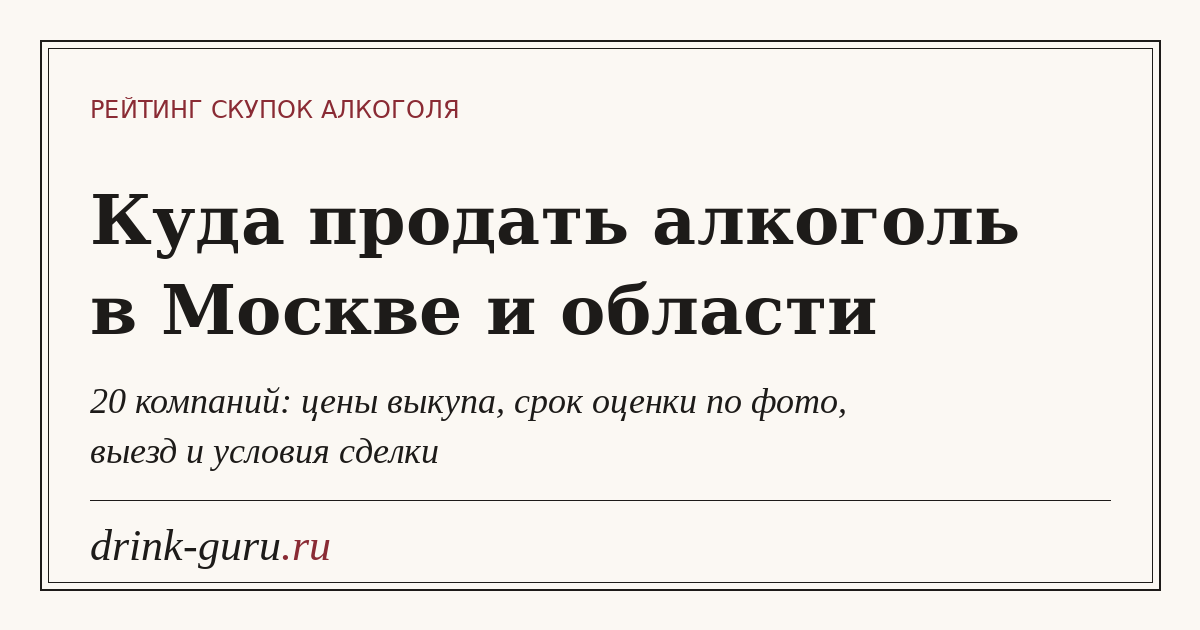
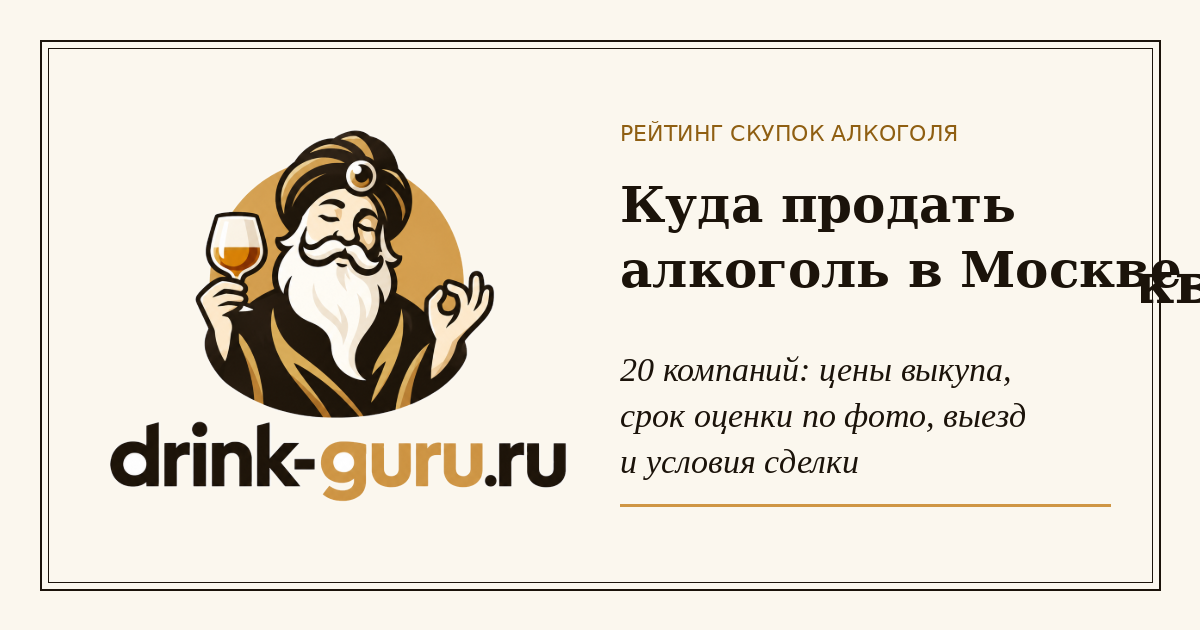
Фирменный стиль drink-guru: логотип, золотая и тёмно-коричневая палитра, иконка и обложка
Claude-Session: https://claude.ai/code/session_01DoYV5VeeReRG5KhwEQv8B6

diff --git a/assets/style.css b/assets/style.css
@@ -1,5 +1,5 @@
 /* Светлая редакционная тема: бумага, чернила, винный акцент */
-:root{--paper:#fbf8f3;--paper-2:#f3eee6;--paper-3:#e8e0d4;--ink:#1d1b19;--ink-2:#3a3631;--accent:#8a2b34;--accent-d:#68202a;--accent-soft:#f4ebe6;--text:#3a3631;--muted:#6a645c;--muted-2:#948c81;--line:#e4dcd0;--rule:#cfc4b4;--white:#fff;--green:#3f7d4e;--red:#c93a3a;--star:#b8863b;--gold:#8a2b34;--gold-d:#68202a;--burgundy:#1d1b19;--cream:#fbf8f3;--cream-2:#f3eee6;--r:2px;--r-lg:2px;--shadow:none;--shadow-lg:0 14px 40px rgba(29,27,25,.10);--serif:"Playfair Display","PT Serif",Georgia,serif;--sans:"Source Sans 3","PT Sans",Arial,sans-serif}
+:root{--gold:#cf9644;--paper:#fbf7ee;--paper-2:#f4eddf;--paper-3:#ebe1cd;--ink:#1b130a;--ink-2:#3b2f21;--accent:#8f5f12;--accent-d:#6c470a;--accent-soft:#f6ecd6;--text:#3b2f21;--muted:#6f6354;--muted-2:#9a8e7a;--line:#e6dcc8;--rule:#d2c5ac;--white:#fff;--green:#3f7d4e;--red:#c93a3a;--star:#cf9644;--gold:#8f5f12;--gold-d:#6c470a;--burgundy:#1b130a;--cream:#fbf7ee;--cream-2:#f4eddf;--r:2px;--r-lg:2px;--shadow:none;--shadow-lg:0 14px 40px rgba(27,19,10,.10);--serif:"Playfair Display","PT Serif",Georgia,serif;--sans:"Source Sans 3","PT Sans",Arial,sans-serif}
 *{box-sizing:border-box;margin:0;padding:0}
 html{scroll-behavior:smooth}
 body{background:var(--paper);color:var(--text);font-family:var(--sans);overflow-x:hidden;line-height:1.55;-webkit-font-smoothing:antialiased}
@@ -25,7 +25,7 @@ img{max-width:100%}
 .menu-btn{display:none;width:44px;height:44px;border:1px solid var(--rule);border-radius:var(--r);background:#fff;color:var(--ink);font-size:22px}
 /* buttons */
 .btn{display:inline-flex;align-items:center;justify-content:center;gap:12px;min-height:50px;padding:0 28px;border-radius:999px;font-size:14px;font-weight:700;letter-spacing:0;transition:.2s}
-.btn-primary{background:var(--accent);color:#fff;border:1px solid var(--accent);box-shadow:0 6px 16px rgba(138,43,52,.18)}
+.btn-primary{background:var(--accent);color:#fff;border:1px solid var(--accent);box-shadow:0 6px 16px rgba(143,95,18,.18)}
 .btn-primary:hover{background:var(--accent-d);border-color:var(--accent-d)}
 .btn-outline{background:#fff;color:var(--ink);border:1px solid var(--rule)}
 .btn-outline:hover{border-color:var(--accent);color:var(--accent)}
@@ -43,7 +43,7 @@ img{max-width:100%}
 .muted{color:var(--muted-2);font-size:12px}
 .lime{color:var(--accent);font-style:normal;font-weight:800}
 /* hero */
-.hero{background:linear-gradient(180deg,#f4ede4 0,var(--paper) 100%)}
+.hero{background:linear-gradient(180deg,#f6efe0 0,var(--paper) 100%)}
 .hero-grid{display:grid;grid-template-columns:1.35fr 1fr;gap:64px;align-items:start;padding:72px 0 64px}
 .hero-title{margin:22px 0 0;color:var(--ink);font-size:clamp(38px,4.6vw,64px);font-weight:800;line-height:1.02;letter-spacing:-2.4px}
 .hero-copy{max-width:580px;margin-top:28px;color:var(--muted);font-size:18px;line-height:1.7}
@@ -96,7 +96,7 @@ img{max-width:100%}
 .cc-actions{display:flex;flex-wrap:wrap;gap:12px}
 .cc-actions .btn{min-height:44px;font-size:13px;padding:0 22px}
 /* rating */
-.stars{--p:0%;display:inline-block;font-size:20px;letter-spacing:2px;line-height:1;background:linear-gradient(90deg,var(--star) var(--p),#ddd3c4 var(--p));-webkit-background-clip:text;background-clip:text;color:transparent;-webkit-text-fill-color:transparent}
+.stars{--p:0%;display:inline-block;font-size:20px;letter-spacing:2px;line-height:1;background:linear-gradient(90deg,var(--star) var(--p),#e0d5be var(--p));-webkit-background-clip:text;background-clip:text;color:transparent;-webkit-text-fill-color:transparent}
 .stars.sm{font-size:14px;letter-spacing:1px}
 .rating{padding:18px 20px;border:1px solid var(--line);border-radius:var(--r);background:var(--paper)}
 .rt-head{display:flex;align-items:center;gap:14px;margin-bottom:12px}
@@ -115,7 +115,7 @@ table.data th{padding:14px 18px;color:var(--muted);background:var(--paper-2);fon
 table.data td{padding:14px 18px;border-top:1px solid var(--line);color:var(--ink-2);vertical-align:top}
 table.data tr:nth-child(even) td{background:var(--paper)}
 table.data td.n{color:var(--accent);font-family:var(--serif);font-size:20px;font-weight:800}
-table.data td.dash{color:#c2b8a8}
+table.data td.dash{color:#c9bca3}
 table.data a:hover{color:var(--accent);text-decoration:underline}
 /* legacy ranking table classes */
 .ranking-table{border:1px solid var(--line);border-radius:var(--r-lg);background:var(--white)}
@@ -126,7 +126,7 @@ table.data a:hover{color:var(--accent);text-decoration:underline}
 /* calculator */
 .calculator-shell{display:grid;grid-template-columns:1fr .85fr;overflow:hidden;border:1px solid var(--line);border-radius:var(--r-lg);background:var(--white);box-shadow:var(--shadow-lg)}
 .calculator-form{padding:clamp(28px,4.5vw,56px)}
-.calculator-result{position:relative;display:flex;flex-direction:column;justify-content:center;padding:clamp(28px,4.5vw,56px);background:linear-gradient(160deg,#f1e6dc,#f7f1e9);color:var(--ink-2)}
+.calculator-result{position:relative;display:flex;flex-direction:column;justify-content:center;padding:clamp(28px,4.5vw,56px);background:linear-gradient(160deg,#f1e6cf,#f7f0e0);color:var(--ink-2)}
 .calculator-title{margin:14px 0;color:var(--ink);font-size:clamp(30px,3.4vw,46px);font-weight:800;line-height:1.08;letter-spacing:-1.2px}
 .calculator-copy{color:var(--muted);line-height:1.65}
 .form-grid{display:grid;gap:13px;margin-top:26px}
@@ -166,7 +166,7 @@ label.lbl{display:grid;gap:8px;color:var(--muted);font-size:13px;font-weight:600
 .prose p{margin-bottom:14px;color:var(--ink-2);line-height:1.8}
 .prose strong{color:var(--ink)}
 /* cta */
-.final-cta{padding:96px 0;text-align:left;background:linear-gradient(160deg,#f1e6dc,#f7f1e9);color:var(--ink)}
+.final-cta{padding:96px 0;text-align:left;background:linear-gradient(160deg,#f1e6cf,#f7f0e0);color:var(--ink)}
 .final-title{max-width:860px;margin:18px 0;color:var(--ink);font-size:clamp(36px,5vw,64px);font-weight:800;line-height:1.04;letter-spacing:-2px}
 .final-copy{max-width:520px;margin:0 0 30px;color:var(--ink-2);font-size:17px;line-height:1.65}
 .final-note{margin-top:18px;color:var(--muted);font-size:11px}
@@ -210,7 +210,7 @@ label.lbl{display:grid;gap:8px;color:var(--muted);font-size:13px;font-weight:600
 .expert-note a{font-weight:700;text-decoration:underline}
 .pager{display:flex;flex-wrap:wrap;justify-content:space-between;gap:14px;margin-top:40px}
 .pager .btn{min-height:44px;font-size:13px}
-.topic-hero{padding:68px 0 52px;background:linear-gradient(180deg,#f4ede4 0,var(--paper) 100%)}
+.topic-hero{padding:68px 0 52px;background:linear-gradient(180deg,#f6efe0 0,var(--paper) 100%)}
 .topic-hero .page-title{max-width:900px;font-size:clamp(34px,4.6vw,60px)}
 .topic-hero .hero-buttons{margin-top:28px}
 .cross-grid{display:grid;grid-template-columns:repeat(3,1fr);gap:20px}
@@ -245,7 +245,7 @@ label.lbl{display:grid;gap:8px;color:var(--muted);font-size:13px;font-weight:600
 .keyfacts .sub{margin-bottom:14px;font-size:26px}
 /* диалог, формы */
 dialog.review{width:min(92vw,480px);padding:28px;border:0;border-radius:var(--r-lg);background:var(--white);color:var(--text);box-shadow:var(--shadow-lg)}
-dialog.review::backdrop{background:rgba(29,27,25,.4);backdrop-filter:blur(3px)}
+dialog.review::backdrop{background:rgba(27,19,10,.4);backdrop-filter:blur(3px)}
 dialog.review .lbl{margin-bottom:12px}
 dialog.review .cc-actions{margin-top:14px;justify-content:flex-end}
 .org-form textarea.field,dialog.review textarea.field{padding:12px 14px;resize:vertical}
@@ -268,7 +268,7 @@ dialog.review .cc-actions{margin-top:14px;justify-content:flex-end}
 .age-badge.sm{min-width:30px;height:30px;margin-right:8px;font-size:11px;vertical-align:middle}
 .age-badge.lg{min-width:76px;height:76px;margin:0 auto 18px;border-width:3px;font-size:26px}
 .header-inner .age-badge{margin-left:-8px}
-.age-gate{position:fixed;inset:0;z-index:200;display:grid;place-items:center;padding:20px;background:rgba(251,248,243,.95);backdrop-filter:blur(10px)}
+.age-gate{position:fixed;inset:0;z-index:200;display:grid;place-items:center;padding:20px;background:rgba(251,247,238,.95);backdrop-filter:blur(10px)}
 .age-gate[hidden]{display:none}
 .age-card{width:min(100%,460px);padding:36px 30px;border:1px solid var(--line);border-radius:var(--r-lg);background:var(--white);text-align:center;box-shadow:var(--shadow-lg)}
 .age-card h2{margin-bottom:12px;color:var(--ink);font-family:var(--serif);font-size:30px;font-weight:800;line-height:1.1}
@@ -348,7 +348,7 @@ body.age-lock{overflow:hidden}
 /* мелкие правки светлой темы */
 .company-card:hover{box-shadow:var(--shadow-lg)}
 .age-badge{border-width:1.5px}
-.header{box-shadow:0 1px 0 rgba(29,27,25,.02)}
+.header{box-shadow:0 1px 0 rgba(27,19,10,.02)}
 
 /* верхняя строка шапки и блок популярных тем в подвале */
 .topbar{background:var(--accent-soft);border-bottom:1px solid var(--line);color:var(--ink-2);font-size:12.5px;line-height:1.4}
@@ -379,11 +379,11 @@ body.age-lock{overflow:hidden}
 /* полоса цифр */
 .stats-section{padding:56px 0 8px}
 .stats-strip{display:grid;grid-template-columns:repeat(4,minmax(0,1fr));gap:20px}
-.stat-tile{display:grid;align-content:start;gap:10px;padding:26px 24px;border-radius:var(--r-lg);background:linear-gradient(160deg,#f4ebe6,#f7f1e9);border:1px solid var(--line)}
+.stat-tile{display:grid;align-content:start;gap:10px;padding:26px 24px;border-radius:var(--r-lg);background:linear-gradient(160deg,#f6ecd6,#f7f0e0);border:1px solid var(--line)}
 .stat-tile b{color:var(--accent-d);font-family:var(--serif);font-size:clamp(34px,3.6vw,48px);font-weight:800;letter-spacing:-1.5px;line-height:1}
 .stat-tile span{color:var(--ink-2);font-size:14px;line-height:1.5}
 /* чек-лист-абзац как врезка */
-.prose.checklist{padding:28px 32px;border-radius:var(--r-lg);background:var(--accent-soft);border:1px solid #e6d6cb}
+.prose.checklist{padding:28px 32px;border-radius:var(--r-lg);background:var(--accent-soft);border:1px solid #e8d9b8}
 .prose.checklist p{margin:0;color:var(--ink-2)}
 @media(max-width:850px){.prose-cards .pgrid,.stats-strip{grid-template-columns:1fr}.pcard{padding:22px}.prow{grid-template-columns:1fr;padding:20px 0}}
 @media(min-width:851px) and (max-width:1100px){.stats-strip{grid-template-columns:repeat(2,minmax(0,1fr))}}
@@ -414,7 +414,7 @@ h1,h2,h3,.serif{font-weight:700;letter-spacing:-.01em}
 .chip.active,.chip:hover{background:var(--ink);border-color:var(--ink)}
 .age-badge{border-radius:50%}
 /* шапка: газетный верх с двойной линией */
-.header{background:rgba(251,248,243,.94);border-bottom:3px double var(--ink);box-shadow:none}
+.header{background:rgba(251,247,238,.94);border-bottom:3px double var(--ink);box-shadow:none}
 .header-inner{min-height:84px}
 .nav-logo{font-weight:700;font-size:28px;letter-spacing:-.02em;font-style:italic}
 .nav-logo i{font-style:italic}
@@ -476,15 +476,15 @@ table.data td.n{font-style:italic}
 .em-photo{border-radius:0;box-shadow:none;border:1px solid var(--ink)}
 .ex-photo{border-radius:0}
 .ex-card{background:var(--white)}
-.footer{background:var(--ink);color:#c9c1b4;border-top:0}
+.footer{background:var(--ink);color:#cdbfa6;border-top:0}
 .footer .nav-logo,.footer-title,.footer .footer-links a.footer-mail{color:var(--paper)}
-.footer-links a{color:#c9c1b4}.footer-links a:hover{color:#e3c58f}
-.footer-tags{border-top:1px solid #4a453e}
+.footer-links a{color:#cdbfa6}.footer-links a:hover{color:#e3c58f}
+.footer-tags{border-top:1px solid #4a3c2a}
 .footer-tags-title{color:var(--paper)}
-.footer-tags a{border-color:#5c564d;color:#c9c1b4}.footer-tags a:hover{border-color:#e3c58f;color:#e3c58f}
-.legal{border-top:1px solid #4a453e;color:#a39a8c}
+.footer-tags a{border-color:#6b5a42;color:#cdbfa6}.footer-tags a:hover{border-color:#e3c58f;color:#e3c58f}
+.legal{border-top:1px solid #4a3c2a;color:#ad9f87}
 .legal strong{border-color:#e3c58f;color:#e3c58f}
-.footer-bottom{color:#a39a8c}
+.footer-bottom{color:#ad9f87}
 .footer .footer-links a.footer-mail{text-decoration-color:#e3c58f}
 .topic-hero{background:var(--paper);border-bottom:1px solid var(--ink)}
 .cover img,.cc-img img{border-radius:0}
@@ -528,3 +528,24 @@ dialog.review{border-radius:0}
 .ex-card{align-items:flex-start}
 .ex-photo{width:200px;height:250px;border-radius:0;border:1px solid var(--ink)}
 @media(max-width:600px){.ex-photo{width:100%;height:280px}}
+
+/* ===== Фирменный стиль drink-guru: золото и тёмно-коричневый ===== */
+.btn-primary:hover,.top-all:hover{background:var(--gold);border-color:var(--gold);color:var(--ink)}
+.chip.active,.chip:hover{background:var(--ink);border-color:var(--ink);color:var(--gold)}
+.ea-pic{background:var(--gold)}
+.ea-mono{color:var(--ink)}
+.eyebrow::before{background:var(--gold)}
+.photo-band .eyebrow{color:var(--gold)}.photo-band .eyebrow::before{background:var(--gold)}
+.nav-logo{flex-direction:row;align-items:center;gap:12px;font-style:normal}
+.logo-mark{display:block;height:56px;width:auto;flex:none}
+.logo-text{display:flex;flex-direction:column;min-width:0}
+.logo-word{color:var(--ink);font-family:"Montserrat","Poppins",Arial,sans-serif;font-weight:800;font-size:26px;letter-spacing:-.04em;line-height:1;white-space:nowrap}
+.logo-word b{color:var(--gold);font-weight:800}
+.nav-logo-sub{margin-top:6px}
+.footer .logo-word{color:var(--paper)}
+.footer .logo-mark{height:64px}
+.footer .nav-logo{align-items:center}
+@media(max-width:850px){.logo-mark{height:44px}.logo-word{font-size:22px}}
+@media(max-width:380px){.logo-mark{display:none}}
+.footer .logo-word b{color:#e2ae5c}
+.footer .nav-logo-sub{color:#bfae8e}

diff --git a/gde-prodat-vodku.html b/gde-prodat-vodku.html
@@ -6,7 +6,7 @@
 <title>Продать водку в Москве: коллекционная и премиальная, рейтинг скупок — drink-guru.ru</title>
 <meta name="description" content="Куда продать водку в Москве: кто принимает коллекционные, лимитированные и советские бутылки, а кто берёт недорогие позиции. Рейтинг скупок, срок оценки по фото, выезд, сохранность и упаковка.">
 <meta name="robots" content="index, follow, max-image-preview:large">
-<meta name="theme-color" content="#8a2b34">
+<meta name="theme-color" content="#1b130a">
 <link rel="canonical" href="https://drink-guru.ru/gde-prodat-vodku.html">
 <link rel="alternate" type="application/json" href="https://drink-guru.ru/data/companies.json" title="Данные рейтинга (JSON)">
 <link rel="icon" href="assets/favicon.png" type="image/png">
@@ -25,8 +25,8 @@
 <meta name="twitter:image" content="https://drink-guru.ru/assets/og.png">
 <link rel="preconnect" href="https://fonts.googleapis.com">
 <link rel="preconnect" href="https://fonts.gstatic.com" crossorigin>
-<link href="https://fonts.googleapis.com/css2?family=Playfair+Display:ital,wght@0,500;0,700;1,500;1,700&family=Source+Sans+3:wght@400;500;600;700&display=swap" rel="stylesheet">
-<link rel="stylesheet" href="assets/style.css?v=aa303c28">
+<link href="https://fonts.googleapis.com/css2?family=Montserrat:wght@800&family=Playfair+Display:ital,wght@0,500;0,700;1,500;1,700&family=Source+Sans+3:wght@400;500;600;700&display=swap" rel="stylesheet">
+<link rel="stylesheet" href="assets/style.css?v=d8941fb3">
 <script type="application/ld+json">{"@context": "https://schema.org", "@type": "WebSite", "name": "drink-guru.ru", "url": "https://drink-guru.ru/", "inLanguage": "ru"}</script>
 <script type="application/ld+json">{"@context": "https://schema.org", "@type": "Organization", "name": "drink-guru.ru", "url": "https://drink-guru.ru/", "logo": "https://drink-guru.ru/assets/og.png", "email": "support@drink-guru.ru", "contactPoint": {"@type": "ContactPoint", "contactType": "customer support", "email": "support@drink-guru.ru", "availableLanguage": "ru"}}</script>
 <script type="application/ld+json">{"@context": "https://schema.org", "@type": "WebPage", "name": "Продать водку в Москве: коллекционная и премиальная, рейтинг скупок — drink-guru.ru", "url": "https://drink-guru.ru/gde-prodat-vodku.html", "description": "Куда продать водку в Москве: кто принимает коллекционные, лимитированные и советские бутылки, а кто берёт недорогие позиции. Рейтинг скупок, срок оценки по фото, выезд, сохранность и упаковка.", "inLanguage": "ru", "dateModified": "2026-10-10", "isPartOf": {"@type": "WebSite", "name": "drink-guru.ru", "url": "https://drink-guru.ru/"}, "publisher": {"@type": "Organization", "name": "drink-guru.ru"}}</script>

diff --git a/gde-prodat-elitnyy-alkogol.html b/gde-prodat-elitnyy-alkogol.html
@@ -6,7 +6,7 @@
 <title>Продать элитный и коллекционный алкоголь в Москве: рейтинг скупок — drink-guru.ru</title>
 <meta name="description" content="Куда продать элитный и коллекционный алкоголь в Москве: рейтинг скупок редкого виски, коньяка, вина и шампанского. Цена выкупа, срок оценки по фото, выезд, сохранность и упаковка.">
 <meta name="robots" content="index, follow, max-image-preview:large">
-<meta name="theme-color" content="#8a2b34">
+<meta name="theme-color" content="#1b130a">
 <link rel="canonical" href="https://drink-guru.ru/gde-prodat-elitnyy-alkogol.html">
 <link rel="alternate" type="application/json" href="https://drink-guru.ru/data/companies.json" title="Данные рейтинга (JSON)">
 <link rel="icon" href="assets/favicon.png" type="image/png">
@@ -25,8 +25,8 @@
 <meta name="twitter:image" content="https://drink-guru.ru/assets/og.png">
 <link rel="preconnect" href="https://fonts.googleapis.com">
 <link rel="preconnect" href="https://fonts.gstatic.com" crossorigin>
-<link href="https://fonts.googleapis.com/css2?family=Playfair+Display:ital,wght@0,500;0,700;1,500;1,700&family=Source+Sans+3:wght@400;500;600;700&display=swap" rel="stylesheet">
-<link rel="stylesheet" href="assets/style.css?v=aa303c28">
+<link href="https://fonts.googleapis.com/css2?family=Montserrat:wght@800&family=Playfair+Display:ital,wght@0,500;0,700;1,500;1,700&family=Source+Sans+3:wght@400;500;600;700&display=swap" rel="stylesheet">
+<link rel="stylesheet" href="assets/style.css?v=d8941fb3">
 <script type="application/ld+json">{"@context": "https://schema.org", "@type": "WebSite", "name": "drink-guru.ru", "url": "https://drink-guru.ru/", "inLanguage": "ru"}</script>
 <script type="application/ld+json">{"@context": "https://schema.org", "@type": "Organization", "name": "drink-guru.ru", "url": "https://drink-guru.ru/", "logo": "https://drink-guru.ru/assets/og.png", "email": "support@drink-guru.ru", "contactPoint": {"@type": "ContactPoint", "contactType": "customer support", "email": "support@drink-guru.ru", "availableLanguage": "ru"}}</script>
 <script type="application/ld+json">{"@context": "https://schema.org", "@type": "WebPage", "name": "Продать элитный и коллекционный алкоголь в Москве: рейтинг скупок — drink-guru.ru", "url": "https://drink-guru.ru/gde-prodat-elitnyy-alkogol.html", "description": "Куда продать элитный и коллекционный алкоголь в Москве: рейтинг скупок редкого виски, коньяка, вина и шампанского. Цена выкупа, срок оценки по фото, выезд, сохранность и упаковка.", "inLanguage": "ru", "dateModified": "2026-10-10", "isPartOf": {"@type": "WebSite", "name": "drink-guru.ru", "url": "https://drink-guru.ru/"}, "publisher": {"@type": "Organization", "name": "drink-guru.ru"}}</script>

diff --git a/metodika.html b/metodika.html
@@ -6,7 +6,7 @@
 <title>Методика рейтинга скупок алкоголя: данные, критерии, оценка — drink-guru.ru</title>
 <meta name="description" content="Как устроен рейтинг скупок алкоголя в Москве: источники данных, критерии оценки, факторы стоимости бутылки, ограничения и сайты, которые, вероятно, принадлежат одному оператору.">
 <meta name="robots" content="index, follow, max-image-preview:large">
-<meta name="theme-color" content="#8a2b34">
+<meta name="theme-color" content="#1b130a">
 <link rel="canonical" href="https://drink-guru.ru/metodika.html">
 <link rel="alternate" type="application/json" href="https://drink-guru.ru/data/companies.json" title="Данные рейтинга (JSON)">
 <link rel="icon" href="assets/favicon.png" type="image/png">
@@ -25,8 +25,8 @@
 <meta name="twitter:image" content="https://drink-guru.ru/assets/og.png">
 <link rel="preconnect" href="https://fonts.googleapis.com">
 <link rel="preconnect" href="https://fonts.gstatic.com" crossorigin>
-<link href="https://fonts.googleapis.com/css2?family=Playfair+Display:ital,wght@0,500;0,700;1,500;1,700&family=Source+Sans+3:wght@400;500;600;700&display=swap" rel="stylesheet">
-<link rel="stylesheet" href="assets/style.css?v=aa303c28">
+<link href="https://fonts.googleapis.com/css2?family=Montserrat:wght@800&family=Playfair+Display:ital,wght@0,500;0,700;1,500;1,700&family=Source+Sans+3:wght@400;500;600;700&display=swap" rel="stylesheet">
+<link rel="stylesheet" href="assets/style.css?v=d8941fb3">
 <script type="application/ld+json">{"@context": "https://schema.org", "@type": "WebSite", "name": "drink-guru.ru", "url": "https://drink-guru.ru/", "inLanguage": "ru"}</script>
 <script type="application/ld+json">{"@context": "https://schema.org", "@type": "Organization", "name": "drink-guru.ru", "url": "https://drink-guru.ru/", "logo": "https://drink-guru.ru/assets/og.png", "email": "support@drink-guru.ru", "contactPoint": {"@type": "ContactPoint", "contactType": "customer support", "email": "support@drink-guru.ru", "availableLanguage": "ru"}}</script>
 <script type="application/ld+json">{"@context": "https://schema.org", "@type": "WebPage", "name": "Методика рейтинга скупок алкоголя: данные, критерии, оценка — drink-guru.ru", "url": "https://drink-guru.ru/metodika.html", "description": "Как устроен рейтинг скупок алкоголя в Москве: источники данных, критерии оценки, факторы стоимости бутылки, ограничения и сайты, которые, вероятно, принадлежат одному оператору.", "inLanguage": "ru", "dateModified": "2026-10-10", "isPartOf": {"@type": "WebSite", "name": "drink-guru.ru", "url": "https://drink-guru.ru/"}, "publisher": {"@type": "Organization", "name": "drink-guru.ru"}}</script>

diff --git a/index.html b/index.html
@@ -6,7 +6,7 @@
 <title>Скупка алкоголя в Москве: рейтинг компаний, куда продать коньяк и виски — drink-guru.ru</title>
 <meta name="description" content="Куда продать коньяк, виски, вино и шампанское в Москве и области: рейтинг 20 скупок коллекционного алкоголя, цены выкупа, срок оценки по фото, выезд и условия сделки.">
 <meta name="robots" content="index, follow, max-image-preview:large">
-<meta name="theme-color" content="#8a2b34">
+<meta name="theme-color" content="#1b130a">
 <link rel="canonical" href="https://drink-guru.ru/">
 <link rel="alternate" type="application/json" href="https://drink-guru.ru/data/companies.json" title="Данные рейтинга (JSON)">
 <link rel="icon" href="assets/favicon.png" type="image/png">
@@ -25,8 +25,8 @@
 <meta name="twitter:image" content="https://drink-guru.ru/assets/og.png">
 <link rel="preconnect" href="https://fonts.googleapis.com">
 <link rel="preconnect" href="https://fonts.gstatic.com" crossorigin>
-<link href="https://fonts.googleapis.com/css2?family=Playfair+Display:ital,wght@0,500;0,700;1,500;1,700&family=Source+Sans+3:wght@400;500;600;700&display=swap" rel="stylesheet">
-<link rel="stylesheet" href="assets/style.css?v=aa303c28">
+<link href="https://fonts.googleapis.com/css2?family=Montserrat:wght@800&family=Playfair+Display:ital,wght@0,500;0,700;1,500;1,700&family=Source+Sans+3:wght@400;500;600;700&display=swap" rel="stylesheet">
+<link rel="stylesheet" href="assets/style.css?v=d8941fb3">
 <script type="application/ld+json">{"@context": "https://schema.org", "@type": "WebSite", "name": "drink-guru.ru", "url": "https://drink-guru.ru/", "inLanguage": "ru"}</script>
 <script type="application/ld+json">{"@context": "https://schema.org", "@type": "Organization", "name": "drink-guru.ru", "url": "https://drink-guru.ru/", "logo": "https://drink-guru.ru/assets/og.png", "email": "support@drink-guru.ru", "contactPoint": {"@type": "ContactPoint", "contactType": "customer support", "email": "support@drink-guru.ru", "availableLanguage": "ru"}}</script>
 <script type="application/ld+json">{"@context": "https://schema.org", "@type": "WebPage", "name": "Скупка алкоголя в Москве: рейтинг компаний, куда продать коньяк и виски — drink-guru.ru", "url": "https://drink-guru.ru/", "description": "Куда продать коньяк, виски, вино и шампанское в Москве и области: рейтинг 20 скупок коллекционного алкоголя, цены выкупа, срок оценки по фото, выезд и условия сделки.", "inLanguage": "ru", "dateModified": "2026-10-10", "isPartOf": {"@type": "WebSite", "name": "drink-guru.ru", "url": "https://drink-guru.ru/"}, "publisher": {"@type": "Organization", "name": "drink-guru.ru"}}</script>

diff --git a/o-reitinge.html b/o-reitinge.html
@@ -6,7 +6,7 @@
 <title>О проекте и эксперте: независимый рейтинг скупок алкоголя — drink-guru.ru</title>
 <meta name="description" content="О проекте: независимый рейтинг скупок элитного и коллекционного алкоголя в Москве. Кто эксперт сайта, откуда данные и почему сайт ничего не покупает.">
 <meta name="robots" content="index, follow, max-image-preview:large">
-<meta name="theme-color" content="#8a2b34">
+<meta name="theme-color" content="#1b130a">
 <link rel="canonical" href="https://drink-guru.ru/o-reitinge.html">
 <link rel="alternate" type="application/json" href="https://drink-guru.ru/data/companies.json" title="Данные рейтинга (JSON)">
 <link rel="icon" href="assets/favicon.png" type="image/png">
@@ -25,8 +25,8 @@
 <meta name="twitter:image" content="https://drink-guru.ru/assets/og.png">
 <link rel="preconnect" href="https://fonts.googleapis.com">
 <link rel="preconnect" href="https://fonts.gstatic.com" crossorigin>
-<link href="https://fonts.googleapis.com/css2?family=Playfair+Display:ital,wght@0,500;0,700;1,500;1,700&family=Source+Sans+3:wght@400;500;600;700&display=swap" rel="stylesheet">
-<link rel="stylesheet" href="assets/style.css?v=aa303c28">
+<link href="https://fonts.googleapis.com/css2?family=Montserrat:wght@800&family=Playfair+Display:ital,wght@0,500;0,700;1,500;1,700&family=Source+Sans+3:wght@400;500;600;700&display=swap" rel="stylesheet">
+<link rel="stylesheet" href="assets/style.css?v=d8941fb3">
 <script type="application/ld+json">{"@context": "https://schema.org", "@type": "WebSite", "name": "drink-guru.ru", "url": "https://drink-guru.ru/", "inLanguage": "ru"}</script>
 <script type="application/ld+json">{"@context": "https://schema.org", "@type": "Organization", "name": "drink-guru.ru", "url": "https://drink-guru.ru/", "logo": "https://drink-guru.ru/assets/og.png", "email": "support@drink-guru.ru", "contactPoint": {"@type": "ContactPoint", "contactType": "customer support", "email": "support@drink-guru.ru", "availableLanguage": "ru"}}</script>
 <script type="application/ld+json">{"@context": "https://schema.org", "@type": "WebPage", "name": "О проекте и эксперте: независимый рейтинг скупок алкоголя — drink-guru.ru", "url": "https://drink-guru.ru/o-reitinge.html", "description": "О проекте: независимый рейтинг скупок элитного и коллекционного алкоголя в Москве. Кто эксперт сайта, откуда данные и почему сайт ничего не покупает.", "inLanguage": "ru", "dateModified": "2026-10-10", "isPartOf": {"@type": "WebSite", "name": "drink-guru.ru", "url": "https://drink-guru.ru/"}, "publisher": {"@type": "Organization", "name": "drink-guru.ru"}}</script>

diff --git a/prices.html b/prices.html
@@ -6,7 +6,7 @@
 <title>Цены выкупа алкоголя в Москве: виски, коньяк, вино, шампанское — drink-guru.ru</title>
 <meta name="description" content="Сколько платят за виски, коньяк, шампанское и вино: открытые цены выкупа 700ml, 1buyup, Red Decanter и SKUPKA-ALKOGOL в одной таблице с пометками «от», «до» и «прибл.».">
 <meta name="robots" content="index, follow, max-image-preview:large">
-<meta name="theme-color" content="#8a2b34">
+<meta name="theme-color" content="#1b130a">
 <link rel="canonical" href="https://drink-guru.ru/prices.html">
 <link rel="alternate" type="application/json" href="https://drink-guru.ru/data/companies.json" title="Данные рейтинга (JSON)">
 <link rel="icon" href="assets/favicon.png" type="image/png">
@@ -25,8 +25,8 @@
 <meta name="twitter:image" content="https://drink-guru.ru/assets/og.png">
 <link rel="preconnect" href="https://fonts.googleapis.com">
 <link rel="preconnect" href="https://fonts.gstatic.com" crossorigin>
-<link href="https://fonts.googleapis.com/css2?family=Playfair+Display:ital,wght@0,500;0,700;1,500;1,700&family=Source+Sans+3:wght@400;500;600;700&display=swap" rel="stylesheet">
-<link rel="stylesheet" href="assets/style.css?v=aa303c28">
+<link href="https://fonts.googleapis.com/css2?family=Montserrat:wght@800&family=Playfair+Display:ital,wght@0,500;0,700;1,500;1,700&family=Source+Sans+3:wght@400;500;600;700&display=swap" rel="stylesheet">
+<link rel="stylesheet" href="assets/style.css?v=d8941fb3">
 <script type="application/ld+json">{"@context": "https://schema.org", "@type": "WebSite", "name": "drink-guru.ru", "url": "https://drink-guru.ru/", "inLanguage": "ru"}</script>
 <script type="application/ld+json">{"@context": "https://schema.org", "@type": "Organization", "name": "drink-guru.ru", "url": "https://drink-guru.ru/", "logo": "https://drink-guru.ru/assets/og.png", "email": "support@drink-guru.ru", "contactPoint": {"@type": "ContactPoint", "contactType": "customer support", "email": "support@drink-guru.ru", "availableLanguage": "ru"}}</script>
 <script type="application/ld+json">{"@context": "https://schema.org", "@type": "WebPage", "name": "Цены выкупа алкоголя в Москве: виски, коньяк, вино, шампанское — drink-guru.ru", "url": "https://drink-guru.ru/prices.html", "description": "Сколько платят за виски, коньяк, шампанское и вино: открытые цены выкупа 700ml, 1buyup, Red Decanter и SKUPKA-ALKOGOL в одной таблице с пометками «от», «до» и «прибл.».", "inLanguage": "ru", "dateModified": "2026-10-10", "isPartOf": {"@type": "WebSite", "name": "drink-guru.ru", "url": "https://drink-guru.ru/"}, "publisher": {"@type": "Organization", "name": "drink-guru.ru"}}</script>

diff --git a/c/oldcognac-ru.html b/c/oldcognac-ru.html
@@ -6,7 +6,7 @@
 <title>oldcognac.ru («СкупкаАлкоголя»): обзор скупки алкоголя, условия и цены — drink-guru.ru</title>
 <meta name="description" content="oldcognac.ru («СкупкаАлкоголя») (oldcognac.ru): график работы, срок оценки по фото, выезд, цены выкупа, плюсы и минусы. Оценка редакции — 2.2 из 5.">
 <meta name="robots" content="index, follow, max-image-preview:large">
-<meta name="theme-color" content="#8a2b34">
+<meta name="theme-color" content="#1b130a">
 <link rel="canonical" href="https://drink-guru.ru/c/oldcognac-ru.html">
 <link rel="alternate" type="application/json" href="https://drink-guru.ru/data/companies.json" title="Данные рейтинга (JSON)">
 <link rel="icon" href="../assets/favicon.png" type="image/png">
@@ -25,8 +25,8 @@
 <meta name="twitter:image" content="https://drink-guru.ru/assets/og.png">
 <link rel="preconnect" href="https://fonts.googleapis.com">
 <link rel="preconnect" href="https://fonts.gstatic.com" crossorigin>
-<link href="https://fonts.googleapis.com/css2?family=Playfair+Display:ital,wght@0,500;0,700;1,500;1,700&family=Source+Sans+3:wght@400;500;600;700&display=swap" rel="stylesheet">
-<link rel="stylesheet" href="../assets/style.css?v=aa303c28">
+<link href="https://fonts.googleapis.com/css2?family=Montserrat:wght@800&family=Playfair+Display:ital,wght@0,500;0,700;1,500;1,700&family=Source+Sans+3:wght@400;500;600;700&display=swap" rel="stylesheet">
+<link rel="stylesheet" href="../assets/style.css?v=d8941fb3">
 <script type="application/ld+json">{"@context": "https://schema.org", "@type": "WebSite", "name": "drink-guru.ru", "url": "https://drink-guru.ru/", "inLanguage": "ru"}</script>
 <script type="application/ld+json">{"@context": "https://schema.org", "@type": "Organization", "name": "drink-guru.ru", "url": "https://drink-guru.ru/", "logo": "https://drink-guru.ru/assets/og.png", "email": "support@drink-guru.ru", "contactPoint": {"@type": "ContactPoint", "contactType": "customer support", "email": "support@drink-guru.ru", "availableLanguage": "ru"}}</script>
 <script type="application/ld+json">{"@context": "https://schema.org", "@type": "WebPage", "name": "oldcognac.ru («СкупкаАлкоголя»): обзор скупки алкоголя, условия и цены — drink-guru.ru", "url": "https://drink-guru.ru/c/oldcognac-ru.html", "description": "oldcognac.ru («СкупкаАлкоголя») (oldcognac.ru): график работы, срок оценки по фото, выезд, цены выкупа, плюсы и минусы. Оценка редакции — 2.2 из 5.", "inLanguage": "ru", "dateModified": "2026-10-10", "isPartOf": {"@type": "WebSite", "name": "drink-guru.ru", "url": "https://drink-guru.ru/"}, "publisher": {"@type": "Organization", "name": "drink-guru.ru"}}</script>

diff --git a/c/probkabar-com.html b/c/probkabar-com.html
@@ -6,7 +6,7 @@
 <title>ProbkaBar (Skupka Premium): обзор скупки алкоголя, условия и цены — drink-guru.ru</title>
 <meta name="description" content="ProbkaBar (Skupka Premium) (probkabar.com): график работы, срок оценки по фото, выезд, цены выкупа, плюсы и минусы. Оценка редакции — 2.3 из 5.">
 <meta name="robots" content="index, follow, max-image-preview:large">
-<meta name="theme-color" content="#8a2b34">
+<meta name="theme-color" content="#1b130a">
 <link rel="canonical" href="https://drink-guru.ru/c/probkabar-com.html">
 <link rel="alternate" type="application/json" href="https://drink-guru.ru/data/companies.json" title="Данные рейтинга (JSON)">
 <link rel="icon" href="../assets/favicon.png" type="image/png">
@@ -25,8 +25,8 @@
 <meta name="twitter:image" content="https://drink-guru.ru/assets/og.png">
 <link rel="preconnect" href="https://fonts.googleapis.com">
 <link rel="preconnect" href="https://fonts.gstatic.com" crossorigin>
-<link href="https://fonts.googleapis.com/css2?family=Playfair+Display:ital,wght@0,500;0,700;1,500;1,700&family=Source+Sans+3:wght@400;500;600;700&display=swap" rel="stylesheet">
-<link rel="stylesheet" href="../assets/style.css?v=aa303c28">
+<link href="https://fonts.googleapis.com/css2?family=Montserrat:wght@800&family=Playfair+Display:ital,wght@0,500;0,700;1,500;1,700&family=Source+Sans+3:wght@400;500;600;700&display=swap" rel="stylesheet">
+<link rel="stylesheet" href="../assets/style.css?v=d8941fb3">
 <script type="application/ld+json">{"@context": "https://schema.org", "@type": "WebSite", "name": "drink-guru.ru", "url": "https://drink-guru.ru/", "inLanguage": "ru"}</script>
 <script type="application/ld+json">{"@context": "https://schema.org", "@type": "Organization", "name": "drink-guru.ru", "url": "https://drink-guru.ru/", "logo": "https://drink-guru.ru/assets/og.png", "email": "support@drink-guru.ru", "contactPoint": {"@type": "ContactPoint", "contactType": "customer support", "email": "support@drink-guru.ru", "availableLanguage": "ru"}}</script>
 <script type="application/ld+json">{"@context": "https://schema.org", "@type": "WebPage", "name": "ProbkaBar (Skupka Premium): обзор скупки алкоголя, условия и цены — drink-guru.ru", "url": "https://drink-guru.ru/c/probkabar-com.html", "description": "ProbkaBar (Skupka Premium) (probkabar.com): график работы, срок оценки по фото, выезд, цены выкупа, плюсы и минусы. Оценка редакции — 2.3 из 5.", "inLanguage": "ru", "dateModified": "2026-10-10", "isPartOf": {"@type": "WebSite", "name": "drink-guru.ru", "url": "https://drink-guru.ru/"}, "publisher": {"@type": "Organization", "name": "drink-guru.ru"}}</script>

diff --git a/politika-konfidencialnosti.html b/politika-konfidencialnosti.html
@@ -6,7 +6,7 @@
 <title>Политика конфиденциальности — drink-guru.ru</title>
 <meta name="description" content="Как сайт обрабатывает персональные данные посетителей: какие данные, для чего, какие у пользователей права и как связаться с оператором.">
 <meta name="robots" content="noindex, follow">
-<meta name="theme-color" content="#8a2b34">
+<meta name="theme-color" content="#1b130a">
 <link rel="canonical" href="https://drink-guru.ru/politika-konfidencialnosti.html">
 <link rel="alternate" type="application/json" href="https://drink-guru.ru/data/companies.json" title="Данные рейтинга (JSON)">
 <link rel="icon" href="assets/favicon.png" type="image/png">
@@ -25,8 +25,8 @@
 <meta name="twitter:image" content="https://drink-guru.ru/assets/og.png">
 <link rel="preconnect" href="https://fonts.googleapis.com">
 <link rel="preconnect" href="https://fonts.gstatic.com" crossorigin>
-<link href="https://fonts.googleapis.com/css2?family=Playfair+Display:ital,wght@0,500;0,700;1,500;1,700&family=Source+Sans+3:wght@400;500;600;700&display=swap" rel="stylesheet">
-<link rel="stylesheet" href="assets/style.css?v=aa303c28">
+<link href="https://fonts.googleapis.com/css2?family=Montserrat:wght@800&family=Playfair+Display:ital,wght@0,500;0,700;1,500;1,700&family=Source+Sans+3:wght@400;500;600;700&display=swap" rel="stylesheet">
+<link rel="stylesheet" href="assets/style.css?v=d8941fb3">
 <script type="application/ld+json">{"@context": "https://schema.org", "@type": "WebSite", "name": "drink-guru.ru", "url": "https://drink-guru.ru/", "inLanguage": "ru"}</script>
 <script type="application/ld+json">{"@context": "https://schema.org", "@type": "Organization", "name": "drink-guru.ru", "url": "https://drink-guru.ru/", "logo": "https://drink-guru.ru/assets/og.png", "email": "support@drink-guru.ru", "contactPoint": {"@type": "ContactPoint", "contactType": "customer support", "email": "support@drink-guru.ru", "availableLanguage": "ru"}}</script>
 <script type="application/ld+json">{"@context": "https://schema.org", "@type": "WebPage", "name": "Политика конфиденциальности — drink-guru.ru", "url": "https://drink-guru.ru/politika-konfidencialnosti.html", "description": "Как сайт обрабатывает персональные данные посетителей: какие данные, для чего, какие у пользователей права и как связаться с оператором.", "inLanguage": "ru", "dateModified": "2026-10-10", "isPartOf": {"@type": "WebSite", "name": "drink-guru.ru", "url": "https://drink-guru.ru/"}, "publisher": {"@type": "Organization", "name": "drink-guru.ru"}}</script>

diff --git a/c/skupka-alkogol-ru.html b/c/skupka-alkogol-ru.html
@@ -6,7 +6,7 @@
 <title>SKUPKA-ALKOGOL: обзор скупки алкоголя, условия и цены — drink-guru.ru</title>
 <meta name="description" content="SKUPKA-ALKOGOL (skupka-alkogol.ru): график работы, срок оценки по фото, выезд, цены выкупа, плюсы и минусы. Оценка редакции — 3.2 из 5.">
 <meta name="robots" content="index, follow, max-image-preview:large">
-<meta name="theme-color" content="#8a2b34">
+<meta name="theme-color" content="#1b130a">
 <link rel="canonical" href="https://drink-guru.ru/c/skupka-alkogol-ru.html">
 <link rel="alternate" type="application/json" href="https://drink-guru.ru/data/companies.json" title="Данные рейтинга (JSON)">
 <link rel="icon" href="../assets/favicon.png" type="image/png">
@@ -25,8 +25,8 @@
 <meta name="twitter:image" content="https://drink-guru.ru/assets/og.png">
 <link rel="preconnect" href="https://fonts.googleapis.com">
 <link rel="preconnect" href="https://fonts.gstatic.com" crossorigin>
-<link href="https://fonts.googleapis.com/css2?family=Playfair+Display:ital,wght@0,500;0,700;1,500;1,700&family=Source+Sans+3:wght@400;500;600;700&display=swap" rel="stylesheet">
-<link rel="stylesheet" href="../assets/style.css?v=aa303c28">
+<link href="https://fonts.googleapis.com/css2?family=Montserrat:wght@800&family=Playfair+Display:ital,wght@0,500;0,700;1,500;1,700&family=Source+Sans+3:wght@400;500;600;700&display=swap" rel="stylesheet">
+<link rel="stylesheet" href="../assets/style.css?v=d8941fb3">
 <script type="application/ld+json">{"@context": "https://schema.org", "@type": "WebSite", "name": "drink-guru.ru", "url": "https://drink-guru.ru/", "inLanguage": "ru"}</script>
 <script type="application/ld+json">{"@context": "https://schema.org", "@type": "Organization", "name": "drink-guru.ru", "url": "https://drink-guru.ru/", "logo": "https://drink-guru.ru/assets/og.png", "email": "support@drink-guru.ru", "contactPoint": {"@type": "ContactPoint", "contactType": "customer support", "email": "support@drink-guru.ru", "availableLanguage": "ru"}}</script>
 <script type="application/ld+json">{"@context": "https://schema.org", "@type": "WebPage", "name": "SKUPKA-ALKOGOL: обзор скупки алкоголя, условия и цены — drink-guru.ru", "url": "https://drink-guru.ru/c/skupka-alkogol-ru.html", "description": "SKUPKA-ALKOGOL (skupka-alkogol.ru): график работы, срок оценки по фото, выезд, цены выкупа, плюсы и минусы. Оценка редакции — 3.2 из 5.", "inLanguage": "ru", "dateModified": "2026-10-10", "isPartOf": {"@type": "WebSite", "name": "drink-guru.ru", "url": "https://drink-guru.ru/"}, "publisher": {"@type": "Organization", "name": "drink-guru.ru"}}</script>

diff --git a/c/diamant-alko-ru.html b/c/diamant-alko-ru.html
@@ -6,7 +6,7 @@
 <title>Diamant Alko: обзор скупки алкоголя, условия и цены — drink-guru.ru</title>
 <meta name="description" content="Diamant Alko (diamant-alko.ru): график работы, срок оценки по фото, выезд, цены выкупа, плюсы и минусы. Оценка редакции — 4.6 из 5.">
 <meta name="robots" content="index, follow, max-image-preview:large">
-<meta name="theme-color" content="#8a2b34">
+<meta name="theme-color" content="#1b130a">
 <link rel="canonical" href="https://drink-guru.ru/c/diamant-alko-ru.html">
 <link rel="alternate" type="application/json" href="https://drink-guru.ru/data/companies.json" title="Данные рейтинга (JSON)">
 <link rel="icon" href="../assets/favicon.png" type="image/png">
@@ -25,8 +25,8 @@
 <meta name="twitter:image" content="https://drink-guru.ru/assets/og.png">
 <link rel="preconnect" href="https://fonts.googleapis.com">
 <link rel="preconnect" href="https://fonts.gstatic.com" crossorigin>
-<link href="https://fonts.googleapis.com/css2?family=Playfair+Display:ital,wght@0,500;0,700;1,500;1,700&family=Source+Sans+3:wght@400;500;600;700&display=swap" rel="stylesheet">
-<link rel="stylesheet" href="../assets/style.css?v=aa303c28">
+<link href="https://fonts.googleapis.com/css2?family=Montserrat:wght@800&family=Playfair+Display:ital,wght@0,500;0,700;1,500;1,700&family=Source+Sans+3:wght@400;500;600;700&display=swap" rel="stylesheet">
+<link rel="stylesheet" href="../assets/style.css?v=d8941fb3">
 <script type="application/ld+json">{"@context": "https://schema.org", "@type": "WebSite", "name": "drink-guru.ru", "url": "https://drink-guru.ru/", "inLanguage": "ru"}</script>
 <script type="application/ld+json">{"@context": "https://schema.org", "@type": "Organization", "name": "drink-guru.ru", "url": "https://drink-guru.ru/", "logo": "https://drink-guru.ru/assets/og.png", "email": "support@drink-guru.ru", "contactPoint": {"@type": "ContactPoint", "contactType": "customer support", "email": "support@drink-guru.ru", "availableLanguage": "ru"}}</script>
 <script type="application/ld+json">{"@context": "https://schema.org", "@type": "WebPage", "name": "Diamant Alko: обзор скупки алкоголя, условия и цены — drink-guru.ru", "url": "https://drink-guru.ru/c/diamant-alko-ru.html", "description": "Diamant Alko (diamant-alko.ru): график работы, срок оценки по фото, выезд, цены выкупа, плюсы и минусы. Оценка редакции — 4.6 из 5.", "inLanguage": "ru", "dateModified": "2026-10-10", "isPartOf": {"@type": "WebSite", "name": "drink-guru.ru", "url": "https://drink-guru.ru/"}, "publisher": {"@type": "Organization", "name": "drink-guru.ru"}}</script>
